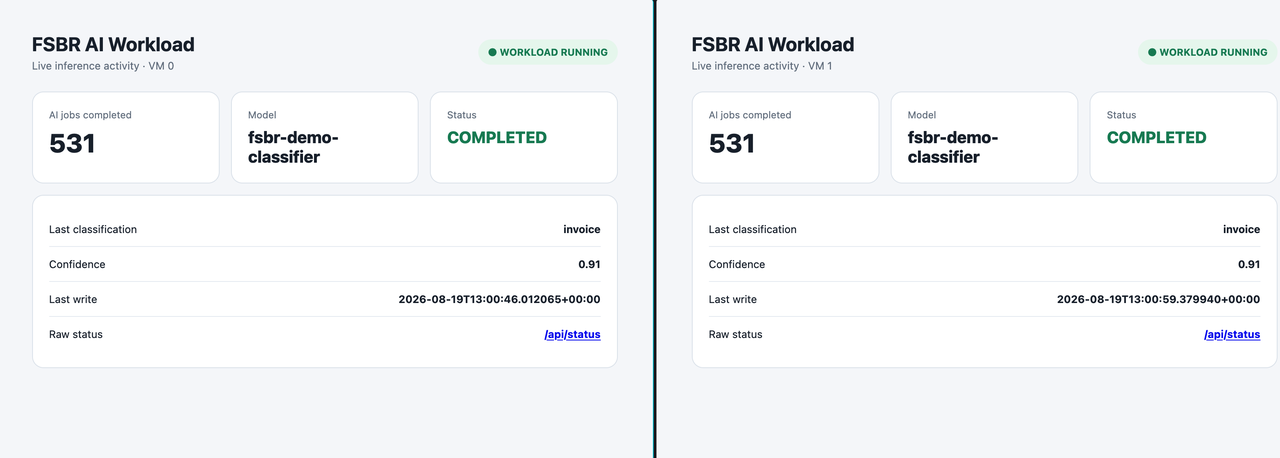
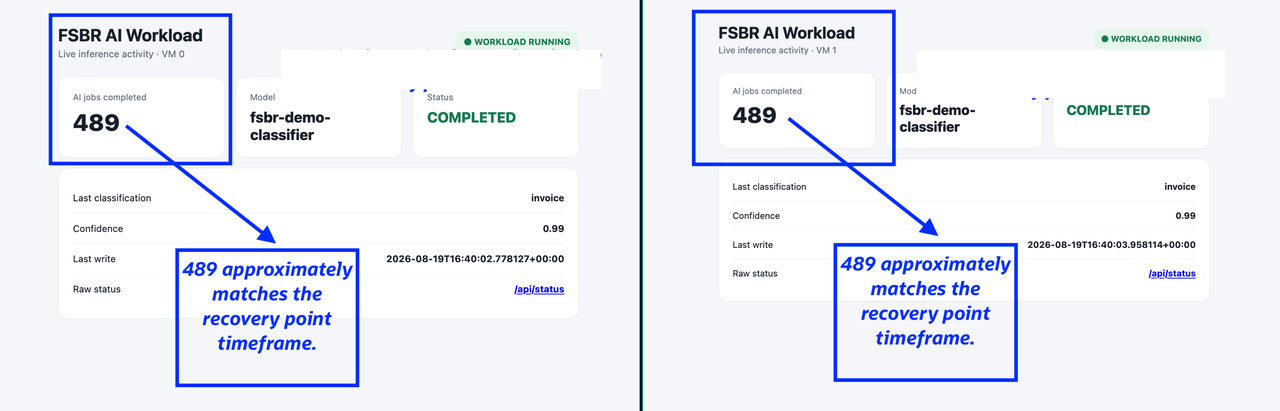
Latest update
Latest update

diff --git a/oci-fullstack-recovery/oci-fullstack-oke/introduction/introduction.md b/oci-fullstack-recovery/oci-fullstack-oke/introduction/introduction.md
@@ -11,7 +11,9 @@ The workshop focuses on resiliency services rather than application development.
 ### Workshop Tracks
 
 - **OCI Full Stack DR:** Protect the OKE application and Autonomous AI Database across the Ashburn primary region and Phoenix standby region. Configure DR protection groups and plans, execute a Start Drill plan, and validate the recovered AI application in Phoenix.
-- **OCI Full Stack BR:** Protect two OCI compute virtual machines and their shared volume group in Ashburn. Configure the BR protection group and backup policy, review the catalog and BR point, and run a backup and recovery plan.
+- **OCI Full Stack BR:** Protect two Ashburn compute virtual machines. Each VM runs the synthetic AI workload and has its own volume group. Configure the BR protection group and backup policy, review the catalog and recovery point, and run a backup and recovery plan.
+
+**Resiliency note:** This workshop demonstrates resiliency at two levels: Full Stack DR provides cross-region application recovery, while Full Stack BR provides regional backup and recovery. The synthetic AI workload and application validation steps help you observe service continuity and confirm that recovery operations restore the required resources.
 
 Together, these tracks demonstrate cross-region application DR orchestration with Full Stack DR and single-region backup and recovery orchestration with Full Stack BR.
 
@@ -23,7 +25,7 @@ OCI Full Stack DR orchestrates the transition of compute, database, and applicat
 
 **Compute**
 
-- Compute Instances (Including Dedicated VM host)
+- Compute instances (including dedicated VM hosts)
 
 **Oracle Database**
 
@@ -43,7 +45,7 @@ OCI Full Stack DR orchestrates the transition of compute, database, and applicat
 
 - Boot and Block Volumes (Volume Groups)
 - File Systems
-- Object storage bucket
+- Object Storage buckets
 
 **Networking**
 
@@ -65,7 +67,7 @@ In this workshop, Full Stack DR uses replication, prechecks, plans, and executio
 
 OCI Full Stack BR provides coordinated backup and recovery for OCI resources within one region. It protects infrastructure state, backup configuration, member backups, and BR points that form consistent recovery points.
 
-In this workshop, Full Stack BR protects two Ashburn compute virtual machines and their shared volume group. You configure the BR protection group and policy, review the catalog and BR point, and run a backup and recovery plan.
+In this workshop, Full Stack BR protects two Ashburn compute virtual machines and an individual volume group for each VM. You configure the BR protection group and policy, review the catalog and recovery point, and run a backup and recovery plan.
 
 ### How the Services Work Together
 
@@ -107,24 +109,24 @@ The workshop uses a primary OKE and Autonomous AI Database environment in Ashbur
 - The bootstrap script creates the `fsdr-iad-primary` and `fsdr-phx-standby` Kubernetes contexts.
 - The application package validates the frontend, backend, Ollama model service, and Autonomous AI Database connection.
 - The workshop configures cross-region replication before creating the Full Stack DR protection groups and plans.
-- Full Stack BR uses the compute instances and shared volume group to create backups, catalog recovery points, and run backup and recovery plans.
+- Full Stack BR uses the compute instances and their individual volume groups to create backups, catalog recovery points, and run backup and recovery plans.
 
 ### Pre-provisioned Resources
 
 The workshop environment includes the following resources for the two resiliency services:
 
 - **Full Stack DR:** A primary OKE cluster and Autonomous AI Database in Ashburn, a standby OKE cluster and Autonomous AI Database in Phoenix, and Autonomous Data Guard between the databases. Lab 1 creates and configures the Ollama persistent volume group with cross-region replication.
-- **Full Stack BR:** Two compute instances and their shared block volume group in Ashburn. These resources are added to a BR protection group for backup and recovery.
+- **Full Stack BR:** Two compute instances and an individual block volume group for each VM in Ashburn. These resources are added to a BR protection group for backup and recovery.
 
 ## Task 4: Workshop Objectives
 
 - Deploy and validate the cloud-native AI workload.
 - Configure the Full Stack DR resources.
 - Execute plan prechecks and the Full Stack DR Start Drill plan.
-- Monitor DR plan and validate the recovered application.
-- Configure Full Stack Backup Recovery protection groups and backup policies.
-- Review catalogs and BR points as recovery points.
-- Run BR plans and verify their executions.
+- Monitor the Start Drill plan and validate the recovered application.
+- Configure Full Stack BR protection groups and backup policies.
+- Review the Full Stack BR recovery catalog and recovery points.
+- Run Full Stack BR backup and recovery plans and verify their executions.
 - Troubleshoot common policy, context, replication, and application-validation issues.
 
 ## Task 5: Reference Links

diff --git a/oci-fullstack-recovery/oci-fullstack-oke/configure-backup-recovery/configure-backup-recovery.md b/oci-fullstack-recovery/oci-fullstack-oke/configure-backup-recovery/configure-backup-recovery.md
@@ -38,6 +38,8 @@ In this lab, you will:
 
 2. In separate browser tabs, open `http://<public-ip-1>` for VM 0 and `http://<public-ip-2>` for VM 1. Use the first tab to monitor VM 0 and the second tab to monitor VM 1. Record the number of completed AI jobs shown by the synthetic AI workload on each VM. These values are the baseline for the Full Stack BR backup and recovery validation. Keep both tabs open throughout Lab 5 and return to them at each major Full Stack BR milestone to record the updated counters.
 
+    **In the example run, the baseline is 454 completed jobs on each VM. Your values will vary depending on when each VM was started and how long the workload has been running. Always use the values displayed in your own VM tabs when comparing checkpoints.**
+
     ![Synthetic AI workload counters for VM 0 and VM 1](./images/synthetic-ai-workload-vm-counters.png)
 
 ## Task 2: Configure Full Stack BR
@@ -114,7 +116,7 @@ In this lab, you will:
 
     ![Plan groups in the default backup plan](./images/full-stack-br-default-backup-plan-groups.png)
 
-3. Before running the backup plan, return to the two workload tabs and record the current **AI jobs completed** value from VM 0 and VM 1. Keep these values as the pre-backup baseline for comparison after the backup and restore operations.
+3. Before running the backup plan, return to the two workload tabs and record the current **AI jobs completed** value from VM 0 and VM 1. In the example run, this value is **483 jobs** on each VM. Use the values displayed in your own VM tabs as the pre-backup baseline for comparison after the backup and restore operations.
 
     ![Synthetic AI workload counters before the backup](./images/synthetic-ai-workload-pre-backup.png)
 
@@ -138,7 +140,7 @@ In this lab, you will:
 
     ![Available Full Stack BR member backups](./images/full-stack-br-member-backups.png)
 
-8. Return to the two workload tabs and record the updated **AI jobs completed** value from VM 0 and VM 1. Compare the values with the pre-backup baseline.
+8. Return to the two workload tabs and record the updated **AI jobs completed** value from VM 0 and VM 1. In the example run, this value is **491 jobs** on each VM. Compare the values with the pre-backup baseline, using the values displayed in your own VM tabs.
 
     ![Synthetic AI workload counters after the backup](./images/synthetic-ai-workload-post-backup.png)
 
@@ -156,9 +158,7 @@ In this lab, you will:
 
     ![Active First recovery point](./images/full-stack-br-recovery-catalog-point.png)
 
-4. Before running the recovery plan, return to the two workload tabs and record the current **AI jobs completed** value from VM 0 and VM 1. Use these values as the pre-recovery baseline.
-
-    ![Synthetic AI workload counters before recovery](./images/synthetic-ai-workload-pre-recovery.png)
+4. After **First recovery point** becomes **Active**, note that the recovery point captures the workload counter at that point in time. The synthetic AI workload completes one job every minute, so the value will vary depending on when the VMs were started and when the recovery point was created. Use the counter values from your own workload tabs as the reference.
 
 5. In the Recovery catalog, select **First recovery point**. Confirm that its state is **Active**, then select **Actions** → **Recover now**.
 
@@ -172,7 +172,17 @@ In this lab, you will:
 
     ![Monitor the recovery plan execution](./images/full-stack-br-recovery-execution-progress.png)
 
-8. Return to the two workload tabs and record the final **AI jobs completed** value from VM 0 and VM 1. Compare the final values with the pre-backup, post-backup, and pre-recovery values to observe workload continuity through the backup and recovery workflow.
+    When all groups show **Succeeded**, confirm that the recovery plan execution is successful.
+
+    ![Recovery plan execution succeeded](./images/full-stack-br-recovery-execution-succeeded.png)
+
+    Expand the execution groups to review the successful operations for both compute instances.
+
+    ![Successful recovery plan execution groups](./images/full-stack-br-recovery-execution-groups-succeeded.png)
+
+8. Return to the two workload tabs and record the final **AI jobs completed** value from VM 0 and VM 1. Because the restore returns the protected resources to **First recovery point** while the scheduler continues to run, the final counter should be approximately aligned with the value captured by the recovery point, but it may not be identical.
+
+    In a realistic production workload, restoring from a recovery point returns the protected resources to the selected point in time according to the recovery requirement. The appropriate recovery point depends on the required recovery objective and the state that must be restored.
 
     ![Synthetic AI workload counters after recovery](./images/synthetic-ai-workload-after-recovery.png)
 
